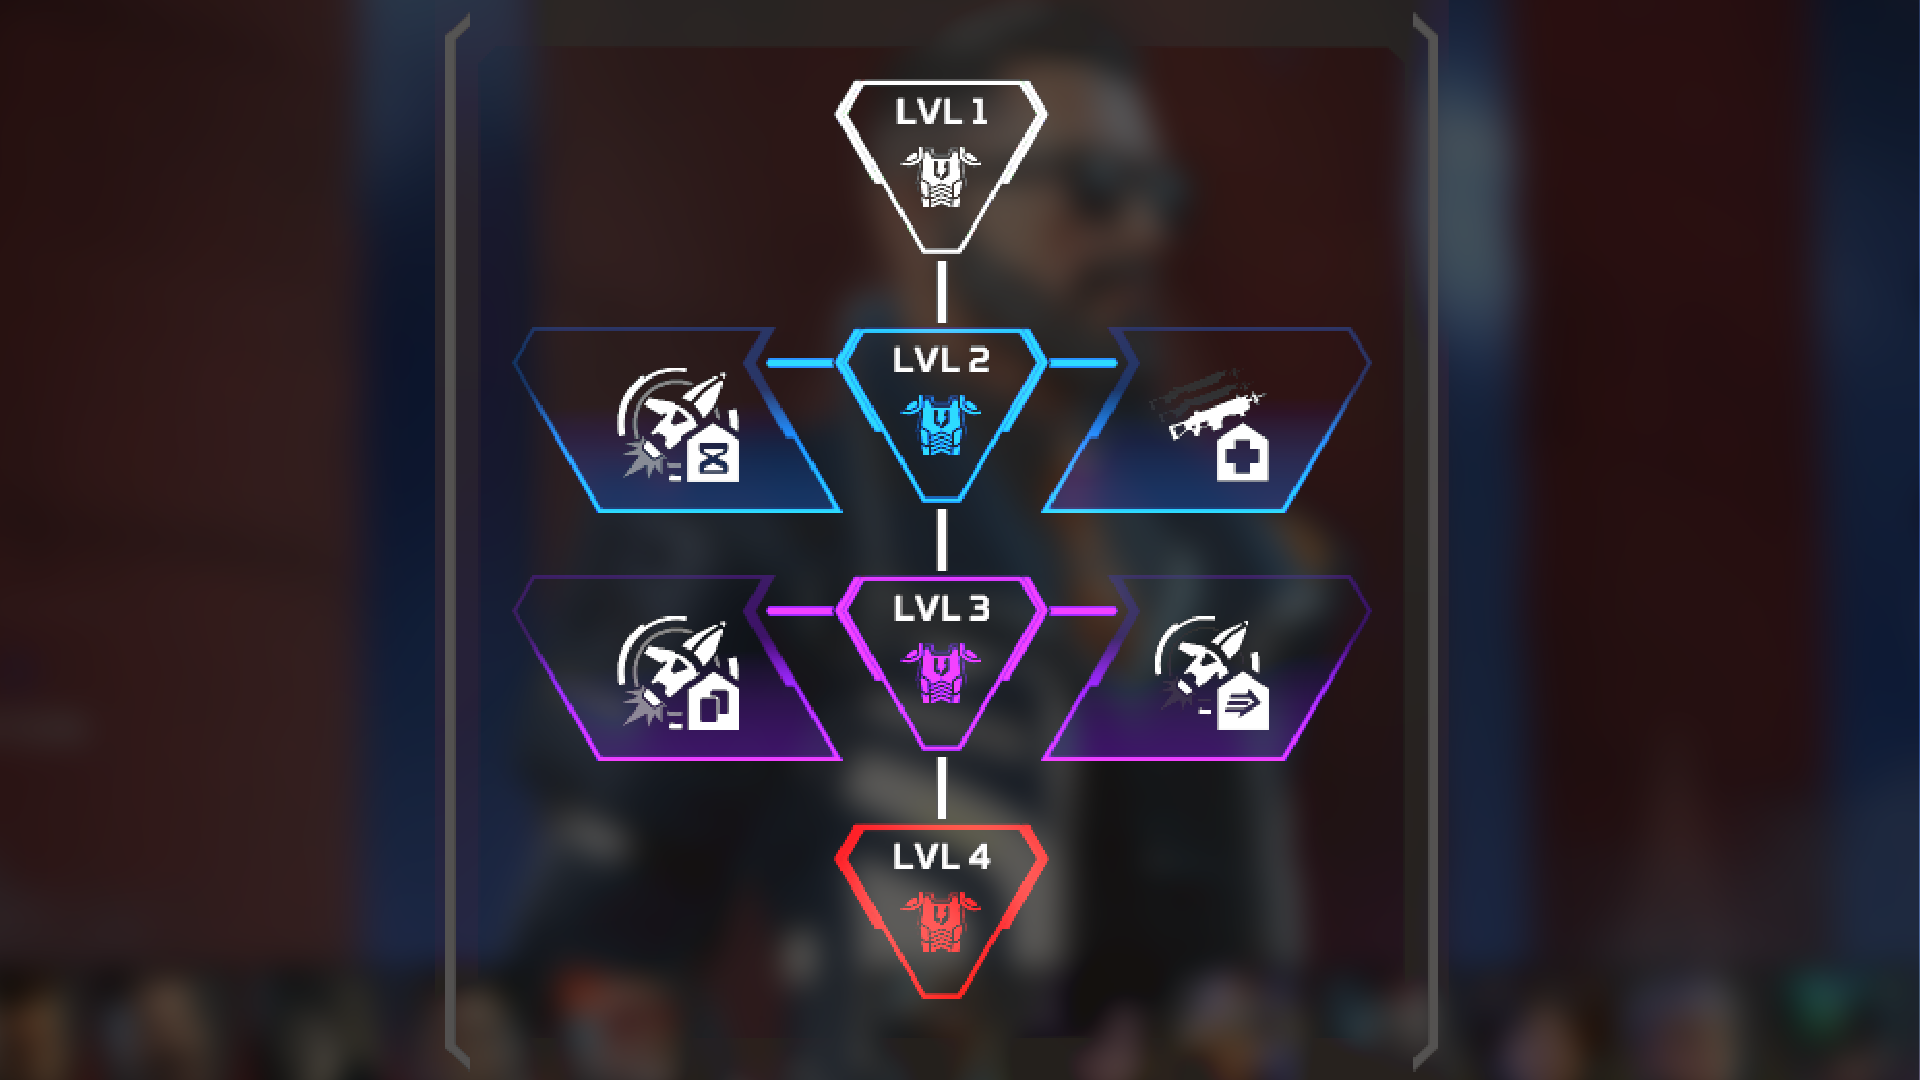
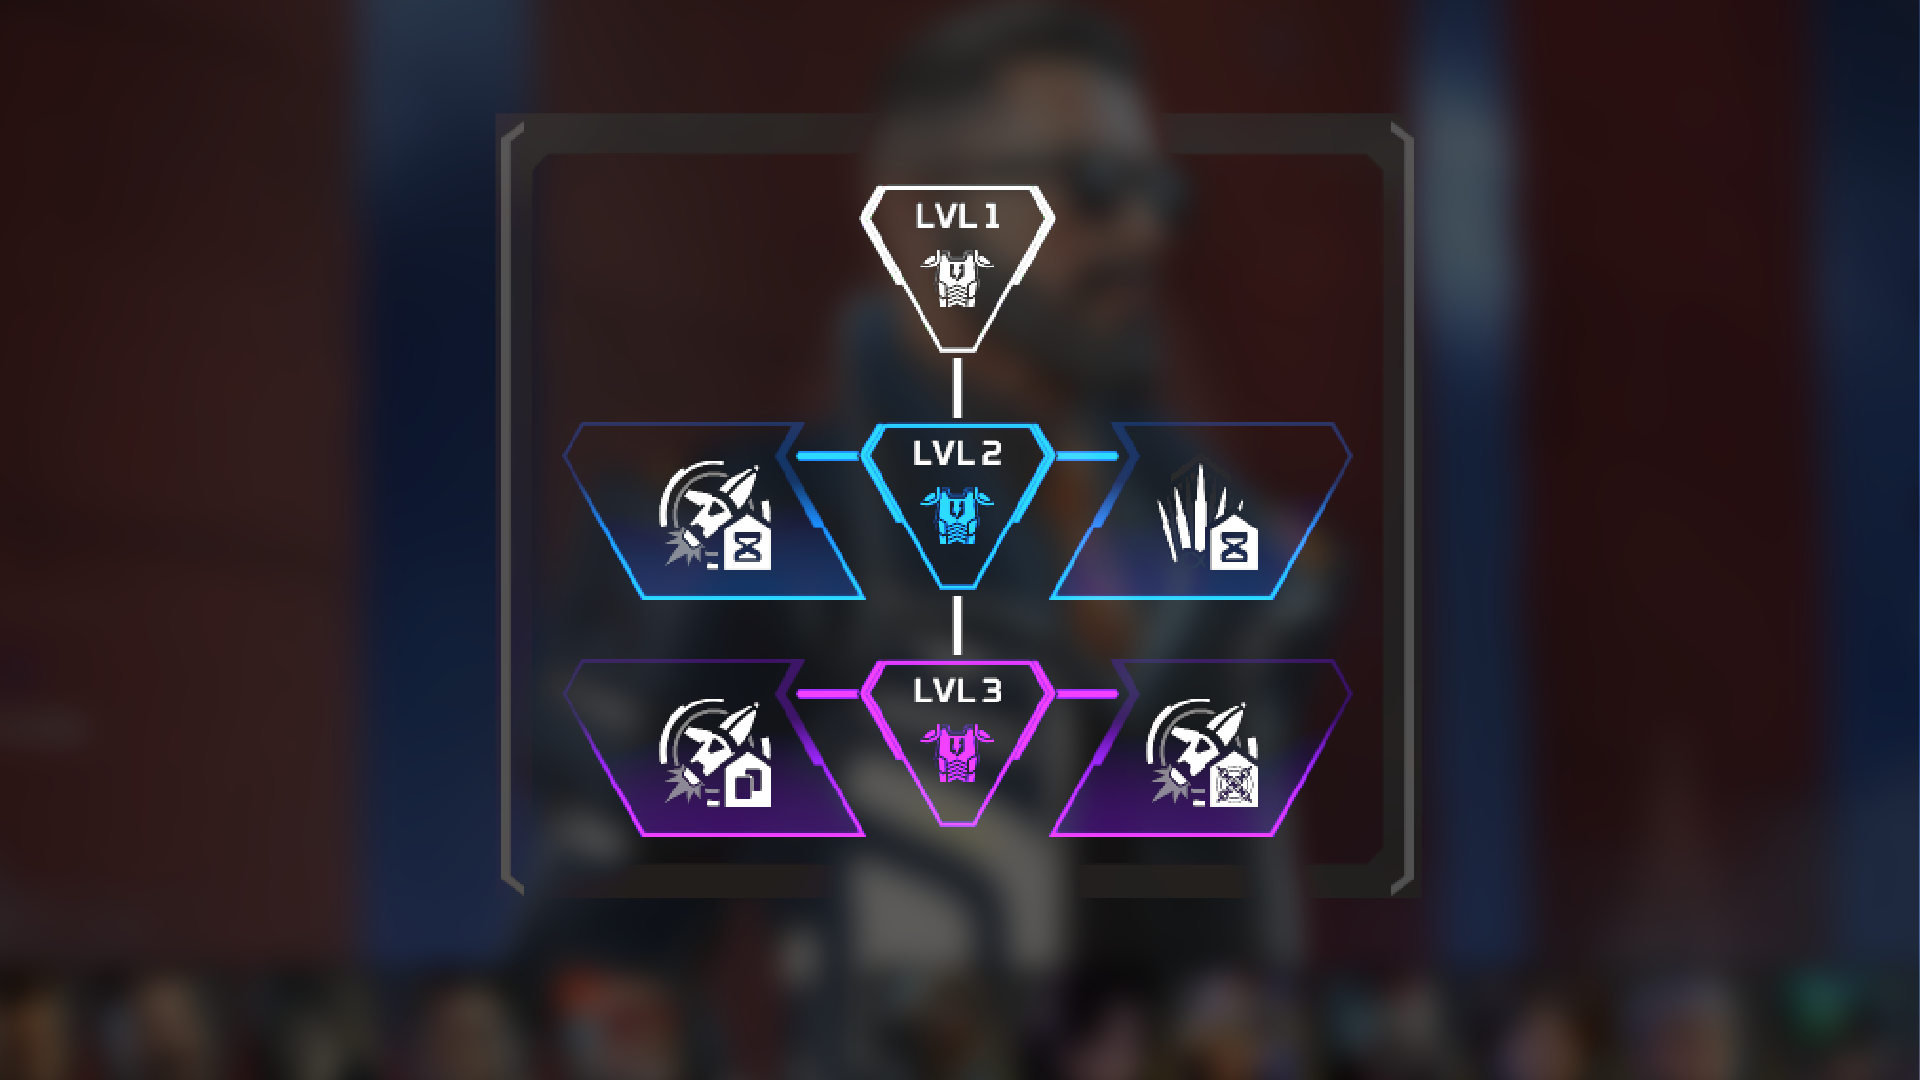
Updated to Apex Legends s24 Takeover changes

Changed region(s): [[0.2188, 0.0, 0.75, 0.9778]]

diff --git a/src/components/events/UpgradeLegends/Assault/Ash.jsx b/src/components/events/UpgradeLegends/Assault/Ash.jsx
@@ -39,24 +39,24 @@ function Upgrade() {
         <div className={styles.SensitiveZone}>
             <div className={styles.Zone1}>
                 <SensitiveZone
-                    title="MURDER MACHINE"
-                    description="Call out the number of squads within 150 meters after a squad wipe."
+                    title="DUAL BREACH"
+                    description="Adds additional ult charge."
                     top={-10}
                     left={-460}
                 />
             </div>
             <div className={styles.Zone2}>
                 <SensitiveZone
-                    title="ONE MINUTE TO LIVE"
-                    description="Using Passive tracks enemy position on map for 60 seconds."
+                    title="GREEDY SNARE"
+                    description="Arc Snare remains in play for 24s and can catch multiple enemies."
                     top={-10}
                     left={100}
                 />
             </div>
             <div className={styles.Zone3}>
                 <SensitiveZone
-                    title2="GREEDY SNARE"
-                    description="Arc Snare remains in play for 24 seconds and can catch multiple enemies."
+                    title2="GHOST IN THE MACHINE"
+                    description="Adds additional Dash charge."
                     top={100}
                     left={-460}
                 />

diff --git a/src/components/events/UpgradeLegends/Assault/Ballistic.jsx b/src/components/events/UpgradeLegends/Assault/Ballistic.jsx
@@ -47,8 +47,8 @@ function Upgrade() {
             </div>
             <div className={styles.Zone2}>
                 <SensitiveZone
-                    title="SLING-SHOT"
-                    description="Sling weapon levels up with each upgrade selection."
+                    title="KILLING TIME"
+                    description="Increases duration of Ult by 15s."
                     top={-10}
                     left={100}
                 />
@@ -56,15 +56,15 @@ function Upgrade() {
             <div className={styles.Zone3}>
                 <SensitiveZone
                     title2="EXTRA BULLET"
-                    description="Gain a Smart Bullet charge."
+                    description="Doubles the number of Tac charges."
                     top={100}
                     left={-460}
                 />
             </div>
             <div className={styles.Zone4}>
                 <SensitiveZone
-                    title2="SPEEDY WHISTLER"
-                    description="Successful hits with Tactical give a 2s burst of speed."
+                    title2="QUIET TIME"
+                    description="Overheat now also silences enemy for 6s."
                     top={100}
                     left={100}
                 />

diff --git a/src/App.jsx b/src/App.jsx
@@ -1,9 +1,13 @@
 import Routes from './routes';
 import './App.css'
+import { Analytics } from "@vercel/analytics/react"
 import { SpeedInsights } from '@vercel/speed-insights/react';
 
 function App() {
     return <Routes />
 }
 <SpeedInsights />
+{/* ... */}
+<Analytics />
+
 export default App

diff --git a/src/components/events/Tabs/Tabs.jsx b/src/components/events/Tabs/Tabs.jsx
@@ -71,6 +71,7 @@ position: relative;
         justify-content: space-between;
         top: 0;
         left: 0;
+        padding-left: 0px;
         color: white;
     
         .tab-content{

diff --git a/src/components/events/Tabs/TabsMaps.jsx b/src/components/events/Tabs/TabsMaps.jsx
@@ -58,6 +58,7 @@ position: relative;
         justify-content: space-between;
         top: 0;
         left: 0;
+        padding-left: 0px;
         color: white;
     
         .tab-content{
